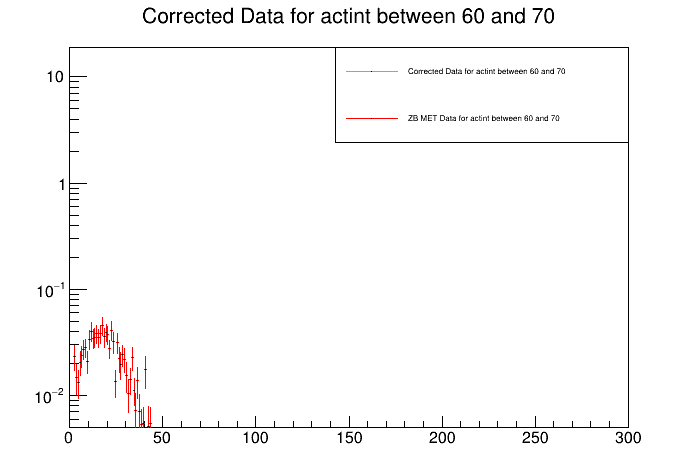
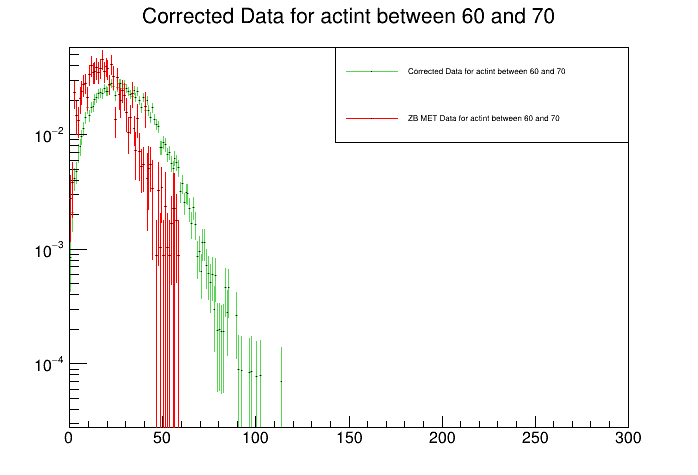
Finally fixed the normalization stuff. it's because the different distributions need different relative normalization thresholds because some of them don't have the same shape as others

Changed region(s): [[0.0602, 0.1179, 0.3911, 0.9137], [0.0602, 0.7368, 0.1203, 0.8547], [0.0602, 0.5011, 0.1203, 0.6189]]

diff --git a/Mu_Analysis/PerformCorrection/CorrectingDistributions.C b/Mu_Analysis/PerformCorrection/CorrectingDistributions.C
@@ -169,26 +169,27 @@ void CorrectingDistributions::SlaveTerminate(){}
 void CorrectingDistributions::Terminate(){
 	// Relative Normalization{{{
     // BinWidth = 1.0 GeV
-    Int_t normalization_bin = 60; // corresponds to 60 GeV
+    Int_t normalization_bin1 = 40; // 
+    Int_t normalization_bin2 = 52; //
+    Int_t normalization_bin3 = 60; //
+    Int_t normalization_bin4 = 56; //
+    Int_t normalization_bin5 = 55; //
+    Int_t normalization_bin6 = 52; //
+    Int_t normalization_bin7 = 40; //
     // Scale the corrected ones to the original zb ones
-    zbMETMuBin10thru20->Draw();
-    std::cout << "ZB MET Bin Content: " << zbMETMuBin0thru10->GetBinContent( normalization_bin )  << std::endl;
-    std::cout << "Corrected Bin Content: " << MET_Correctedmu0thru10->GetBinContent( normalization_bin ) << std::endl;
-    Double_t scale_factor1 = zbMETMuBin0thru10->GetBinContent( normalization_bin ) / MET_Correctedmu0thru10->GetBinContent( normalization_bin );
+    Double_t scale_factor1 = zbMETMuBin0thru10->GetBinContent( normalization_bin1 ) / MET_Correctedmu0thru10->GetBinContent( normalization_bin1 );
     std::cout << scale_factor1 << std::endl;
-    Double_t scale_factor2 = zbMETMuBin10thru20->GetBinContent( normalization_bin ) / MET_Correctedmu10thru20->GetBinContent( normalization_bin );
+    Double_t scale_factor2 = zbMETMuBin10thru20->GetBinContent( normalization_bin2 ) / MET_Correctedmu10thru20->GetBinContent( normalization_bin2 );
     std::cout << scale_factor2 << std::endl;
-    Double_t scale_factor3 = zbMETMuBin20thru30->GetBinContent( normalization_bin ) / MET_Correctedmu20thru30->GetBinContent( normalization_bin );
+    Double_t scale_factor3 = zbMETMuBin20thru30->GetBinContent( normalization_bin3 ) / MET_Correctedmu20thru30->GetBinContent( normalization_bin3 );
     std::cout << scale_factor3 << std::endl;
-    Double_t scale_factor4 = zbMETMuBin30thru40->GetBinContent( normalization_bin ) / MET_Correctedmu30thru40->GetBinContent( normalization_bin );
+    Double_t scale_factor4 = zbMETMuBin30thru40->GetBinContent( normalization_bin4 ) / MET_Correctedmu30thru40->GetBinContent( normalization_bin4 );
     std::cout << scale_factor4 << std::endl;
-    Double_t scale_factor5 = zbMETMuBin40thru50->GetBinContent( normalization_bin ) / MET_Correctedmu40thru50->GetBinContent( normalization_bin );
+    Double_t scale_factor5 = zbMETMuBin40thru50->GetBinContent( normalization_bin5 ) / MET_Correctedmu40thru50->GetBinContent( normalization_bin5 );
     std::cout << scale_factor5 << std::endl;
-    Double_t scale_factor6 = zbMETMuBin50thru60->GetBinContent( normalization_bin ) / MET_Correctedmu50thru60->GetBinContent( normalization_bin );
+    Double_t scale_factor6 = zbMETMuBin50thru60->GetBinContent( normalization_bin6 ) / MET_Correctedmu50thru60->GetBinContent( normalization_bin6 );
     std::cout << scale_factor6 << std::endl;
-    std::cout << "ZB MET Bin Content: " << zbMETMuBin60thru70->GetBinContent( normalization_bin )  << std::endl;
-    std::cout << "Corrected Bin Content: " << MET_Correctedmu60thru70->GetBinContent( normalization_bin ) << std::endl;
-    Double_t scale_factor7 = zbMETMuBin60thru70->GetBinContent( normalization_bin ) / MET_Correctedmu60thru70->GetBinContent( normalization_bin );
+    Double_t scale_factor7 = zbMETMuBin60thru70->GetBinContent( normalization_bin7 ) / MET_Correctedmu60thru70->GetBinContent( normalization_bin7 );
     std::cout << scale_factor7 << std::endl;
 
     zbMETMuBin0thru10->SetNormFactor(1.);
